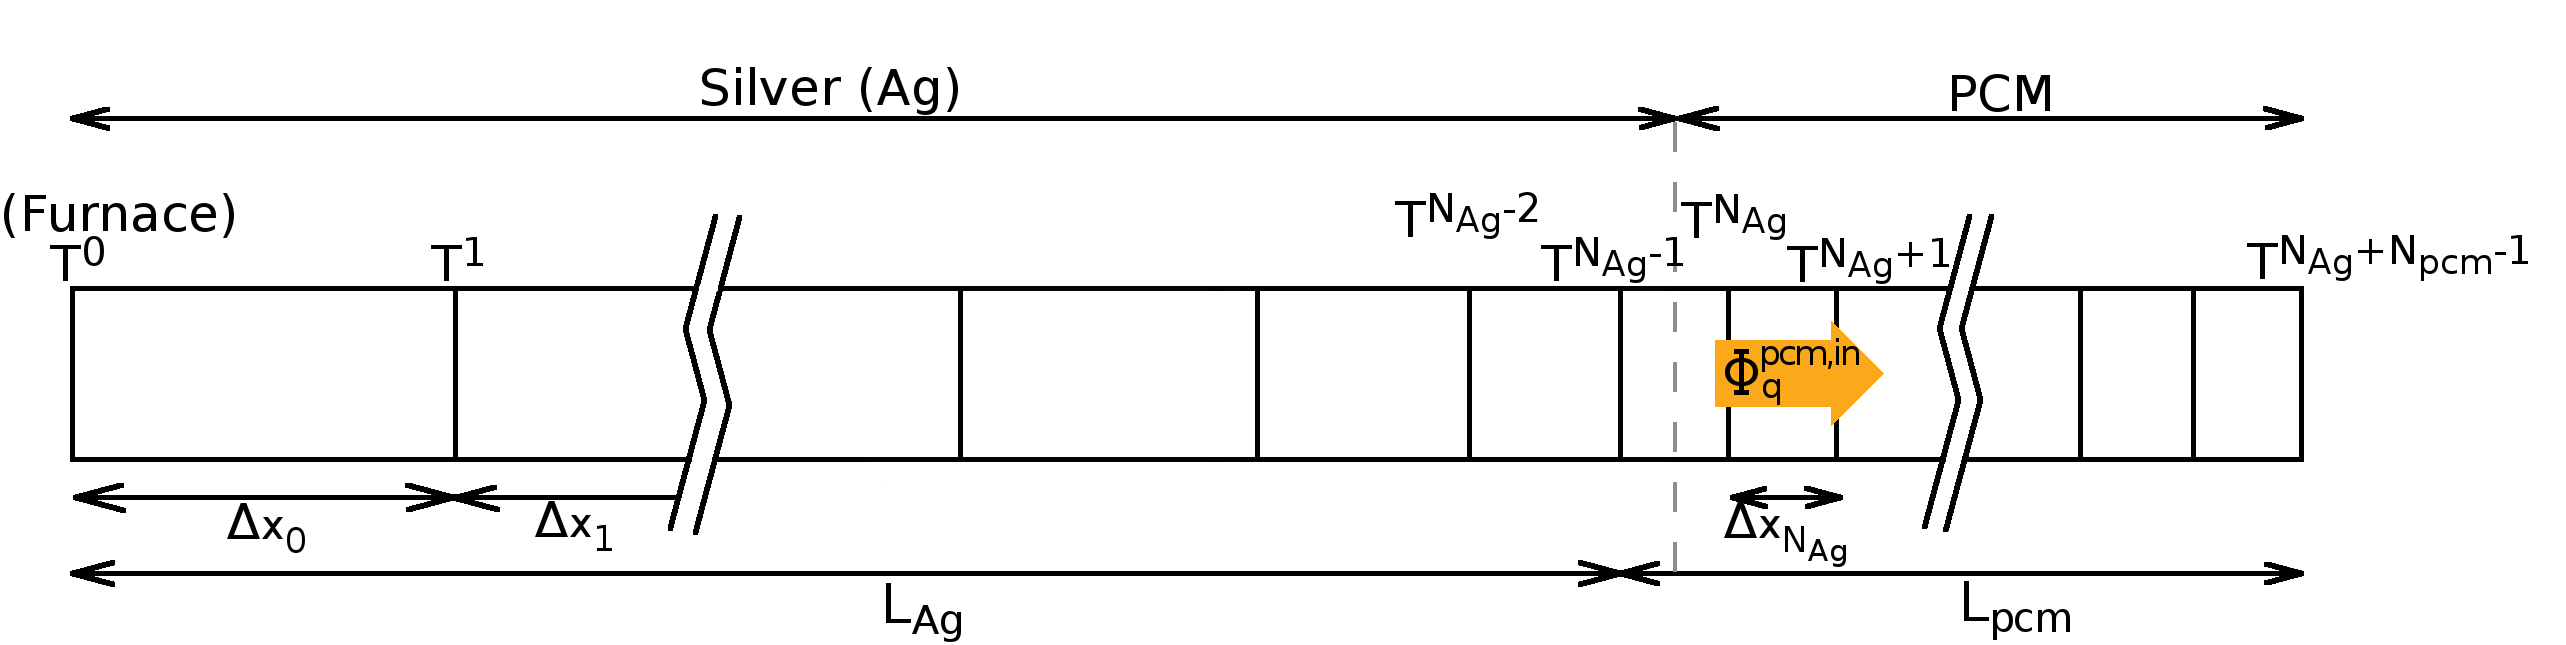
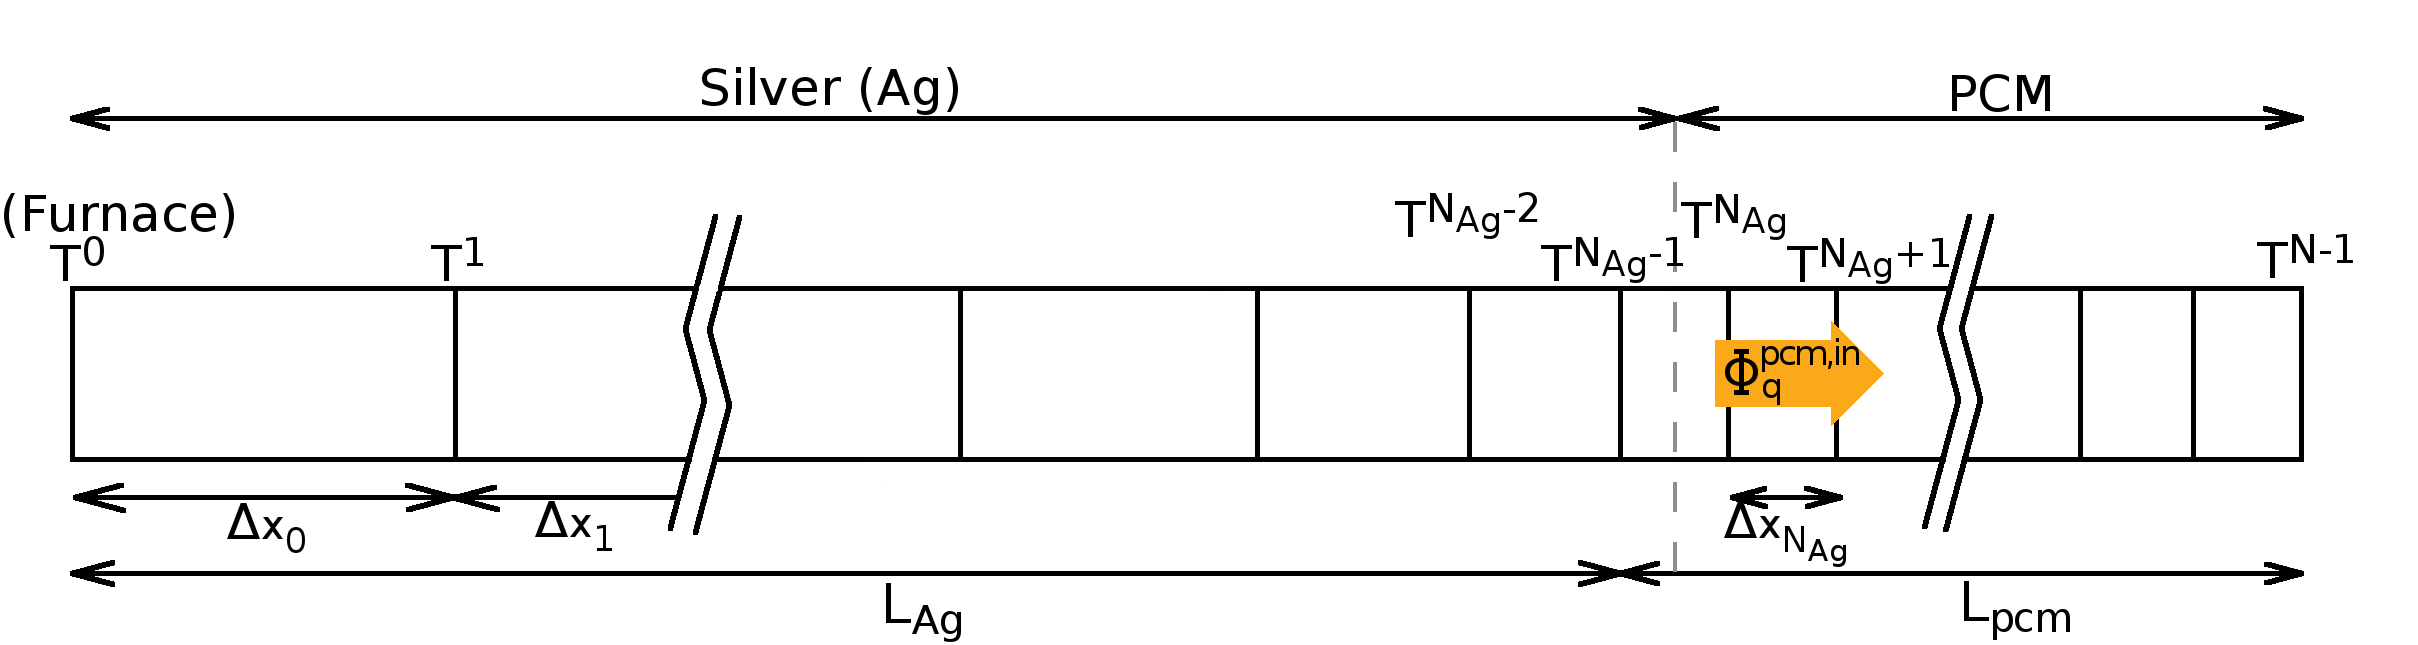
updated mathematical model part in thesis

diff --git a/thesis/thesis.tex b/thesis/thesis.tex
@@ -1331,7 +1331,7 @@ where $F_{1-\alpha}$ is the $1-\alpha$ quantile of the Fisher-distribution. The 
 
 Our 1D mathematical model uses the differential state variable $T(x,t)$ which is the temperature at spatial coordinate $x$ at time $t$. It is based on the following assumptions. First the heat transport is exclusively done by thermal diffusion (c.f. \cref{sec:heat_equation}), so convection and thermal radiation are neglected. 
 Moreover we assume that the reference and sample crucible (see \cref{fig:heat_flux_DSC}) are independent of each other which allows us to simulate each side on its own. 
-Analog to the experimental setup the silver plate is connected with the furnace whose temperature increases we a constant heat rate $\beta$ which gives the Dirichlet boundary condition \cref{eq:heat_equation_BC_dirichlet}. All material properties of silver are constant so the heat transport there is described by \cref{eq:heat_equation_Ag}. The silver plate then is connected with the PCM whose mass density $\rho_{pcm}$ and heat conductivity $\lambda_{pcm}$ are assumed to be constant. The specific heat capacity $c_p(T)$ is temperature dependent, parametrized (c.f. \cref{sec:parametrizations}) and the quantity we want to obtain by performing a parameter estimation. \cref{eq:heat_equation_PCM} describes then the heat transport within the PCM at which we assume that no heat can leave the PCM, resulting in Neumann boundary condition \cref{eq:heat_equation_BC_Neumann}. Finally as start condition at time $t_0 = 0$ we assume that the temperature is equal everywhere (\cref{eq:heat_equation_start_values}).
+Analog to the experimental setup the silver plate is connected with the furnace whose temperature increases with a constant heat rate $\beta$ which gives the Dirichlet boundary condition \cref{eq:heat_equation_BC_dirichlet}. All material properties of silver are constant so the heat transport there is described by \cref{eq:heat_equation_Ag}. The silver plate then is connected with the PCM whose mass density $\rho_{pcm}$ and heat conductivity $\lambda_{pcm}$ are assumed to be constant. The specific heat capacity $c_p(T)$ is temperature dependent, parametrized (c.f. \cref{sec:parametrizations}) and the quantity we want to obtain by performing a parameter estimation. \Cref{eq:heat_equation_PCM} describes then the heat transport within the PCM at which we assume that no heat can leave the PCM, resulting in Neumann boundary condition \cref{eq:heat_equation_BC_Neumann}. Finally as start condition at time ${t_0 = 0}$ we assume that the temperature is equal everywhere (\cref{eq:heat_equation_start_values}).
 
 \begin{subequations}
 	\begin{align}
@@ -1345,7 +1345,9 @@ Analog to the experimental setup the silver plate is connected with the furnace 
 \end{subequations}
 
 
-In order to solve \cref{eq:heat_equation_model} the method of lines is applied for a spatial discretization (c.f. \cref{sec:pde_discretization}) of the temperature. In \cref{sec:spatial_discretization_grid} the construction of the inhomogeneous grid will be explained in detail. The resulting initial value problem reads as
+In order to solve \cref{eq:heat_equation_model} method of lines is applied for spatial discretization (c.f. \cref{sec:pde_discretization}) of the temperature field $T(x,t)$. The silver plate has $N_{Ag}$ and the PCM $N_{pcm}$ discretization points where the total number of discretization points is $N = N_{Ag} + N_{pcm}$.
+An illustration of the discretized model is depicted in \cref{fig:mathematical_model_discretized}. Note that the first discretized temperature within the PCM is $T^{N_{Ag}}$.
+In \cref{sec:spatial_discretization_grid} the construction of the inhomogeneous grid will be explained in detail. The resulting initial value problem reads as
 
 \begin{align}
 \hspace{-2cm}
@@ -1353,9 +1355,9 @@ In order to solve \cref{eq:heat_equation_model} the method of lines is applied f
 T^0 \\[1ex]
 T^1 \\[0.3ex]
 \vdots \\[1ex]
-T^{N-N_{pcm}-2} \\[1.7ex]
-T^{N-N_{pcm}-1} \\[1.7ex]
-T^{N-N_{pcm}} \\[0.5ex]
+T^{N_{Ag}-2} \\[1.7ex]
+T^{N_{Ag}-1} \\[1.7ex]
+T^{N_{Ag}} \\[0.5ex]
 \vdots \\[1.5ex]
 T^{N-2} \\[1ex]
 T^{N-1}
@@ -1364,49 +1366,63 @@ T^{N-1}
 \beta \\
 \frac{\lambda_{\text{Ag}}}{\rho_{\text{Ag}} \ c_{p,\text{Ag}}} \cdot \tilde{\Delta} T^1 \\[0.7ex]
 \vdots \\[0.3ex]
-\frac{\lambda_{\text{Ag}}}{\rho_{\text{Ag}} \ c_{p,\text{Ag}}} \cdot \tilde{\Delta} T^{N-N_{pcm}-1} \\[1.5ex]
-\frac{\lambda_{\text{Ag}}}{\rho_{\text{Ag}} \ c_{p,\text{Ag}}} \cdot \tilde{\Delta} T^{N-N_{pcm}} \\[1.5ex]
-\frac{\lambda_{\text{pcm}}}{\rho_{\text{pcm}} \ c_{p,{\text{pcm}}}(T^{N-N_{pcm}+1})} \cdot \tilde{\Delta} T^{N-N_{pcm}+1} \\[0.5ex]
+\frac{\lambda_{\text{Ag}}}{\rho_{\text{Ag}} \ c_{p,\text{Ag}}} \cdot \tilde{\Delta} T^{N_{Ag}-2} \\[1.5ex]
+\frac{\lambda_{\text{Ag}}}{\rho_{\text{Ag}} \ c_{p,\text{Ag}}} \cdot \tilde{\Delta} T^{N_{Ag}-1} \\[1.5ex]
+\frac{\lambda_{\text{pcm}}}{\rho_{\text{pcm}} \ c_{p,{\text{pcm}}}(T^{N_{Ag}})} \cdot \tilde{\Delta} T^{N_{Ag}} \\[0.5ex]
 \vdots \\[0.5ex]
 \frac{\lambda_{\text{pcm}}}{\rho_{\text{pcm}} \ c_{p,{\text{pcm}}}(T^{N-2})} \cdot \tilde{\Delta} T^{N-2} \\[0.5ex]
-\frac{\lambda_{\text{pcm}}}{\rho_{\text{pcm}} \ c_{p,\text{pcm}}(T^{N-1})} \cdot \tilde{\Delta} T^{N-1}
+%\frac{\lambda_{\text{pcm}}}{\rho_{\text{pcm}} \ c_{p,\text{pcm}}(T^{N-1})} \cdot \tilde{\Delta} T^{N-1}
+\frac{\lambda_{\text{pcm}}}{\rho_{\text{pcm}} \ c_{p,\text{pcm}}(T^{N-1})} \cdot \frac{1}{\Delta x_{N-2}^2} \frac{2}{1 + \alpha_{N-2}} [T^{N-2} - T^{N-1}]
 \end{bmatrix} \label{eq:heat_equation_discretized} \\[2ex]
 T^i(t_0=0) = & \ T_0 \ \ \forall \ \ i \in \{ 0,1,...,N-1 \} \nonumber
 \end{align}
 
-\todo{Eintrag $T^{N-1}$ falsch...} \\
 
-where using \cref{eq:2_point_formula_inhomogeneous} the abbreviation for the discretized second derivative is defined as
+where \cref{eq:2_point_formula_inhomogeneous} has been used. The abbreviation for the discretized second derivative is defined as
 
 \begin{align}
 	\tilde{\Delta} T^i := \frac{1}{\Delta x_{i-1}^2} \left[ \frac{2}{1+\alpha_{i-1}} T^{i-1} - \frac{2}{\alpha_{i-1}} T^{i} + \frac{2}{\alpha_{i-1} (\alpha_{i-1} + 1)} T^{i+1} \right]
 \end{align}
 
-and the factor $\alpha$ coming from the inhomogeneous grid is
+and the factor $\alpha_i$ coming from the inhomogeneous grid is
 
 \begin{align}
 	\alpha_i = \frac{\Delta x_{i+1}}{\Delta x_{i}}
 \end{align}
 
+Note here that the Dirichlet boundary condition 
+
+\begin{equation}
+	T^0 = T_0 + \beta \cdot t
+\end{equation}
+
+is apparent by the heat rate $\beta$ at temperature $T^0$. Zero flux Neumann boundary condition on the other hand
+
+\begin{align}
+	\frac{\partial}{\partial x} T^{N-1} \stackrel{\cdot}{=} & \ \frac{T^N - T^{N-1}}{\Delta x_{N-1}} \stackrel{!}{=} \ 0 \\
+	\Leftrightarrow T^{N-1} = & \ T^N
+\end{align}
+
+ at the PCM gives the expression for $\frac{d T^{N-1}}{dt}$ in \cref{eq:heat_equation_discretized} where a virtual grid point $T^N$ has been used.
 
 \begin{figure}[H]
 	\centering
 	\includegraphics[width=1.\textwidth]{/home/argo/masterarbeit/thesis/images/discretization_grid_heat_flux.png}
-	\caption{\todo{!!}}
+	\caption{Illustration of discretized model with discrete temperatures $T^i$, grid sizes $\Delta x_i$, physical length $L$ and heat flux approximation $\varPhi_q^{pcm,in}$ into the PCM. \\
+	C.f	corresponding IVP \cref{eq:heat_equation_discretized}, grid size construction \cref{sec:spatial_discretization_grid} and heat flux approximation \cref{eq:heat_flux_computation_final} and experimental setup \cref{fig:heat_flux_DSC}.}
 	\label{fig:mathematical_model_discretized}
 \end{figure}
 
-The system is structured in three parts. First there is the furnace which increases its temperature with the heating rate $\beta$. Afterwards comes the silver plate until index $N$-$N_{pcm}$-$1$ and finally the PCM with temperature dependent specific heat capacity $c_p$. \\
 
-Solving \cref{eq:heat_equation_discretized} yields the temperature but we are primarily interested in the heat flux into the PCM $\varPhi_{q}^{\text{pcm,in}}$ marked in \cref{fig:mathematical_model_discretized}. For the conversion from temperature to heat flux we use Fourier's law \cref{eq:fouriers_law} where the gradient is discretized:
+Solving \cref{eq:heat_equation_discretized} yields the temperature but we are primarily interested in the heat flux into the PCM $\varPhi_{q}^{pcm,in}$. For the conversion from temperature to heat flux we use Fourier's law \cref{eq:fouriers_law} where the gradient is discretized:
 
 \begin{align}
-	\varPhi_{q}^{\text{pcm,in}}(T) = & - \bar{\lambda} \frac{T^{N_{\text{pcm}}} - T^{N_{\text{pcm}}-1}}{\Delta x_{N_{\text{pcm}}-1}} \cdot A_{\text{pcm}} \\
-	\approx & - \lambda_{\text{pcm}} \frac{T^{N_{\text{pcm}}+1} - T^{N_{\text{pcm}}}}{\Delta x_{N_{\text{pcm}}}} \cdot A_{\text{pcm}} \nonumber
+	\varPhi_{q}^{pcm,in}(T) = & - \bar{\lambda} \frac{T^{N_{Ag}} - T^{N_{Ag}-1}}{\Delta x_{N_{Ag}-1}} \cdot A_{pcm} \\
+	\approx & - \lambda_{pcm} \frac{T^{N_{Ag}+1} - T^{N_{Ag}}}{\Delta x_{N_{Ag}}} \cdot A_{pcm} \nonumber
 \end{align}
 
-The approximation is necessary because we do not know the heat conductivity $\bar{\lambda}$ at the transition between the silver plate and the PCM. \\
-Since Fourier's law gives a heat flux density we need to add a factor of the PCM's cross section $A_{\text{pcm}}$. It is computed by
+The approximation (marked in \cref{fig:mathematical_model_discretized}) is necessary because we do not know the heat conductivity $\bar{\lambda}$ at the transition between the silver plate and the PCM. \\
+Since Fourier's law gives a heat flux density we need to add a factor of the PCM's cross section $A_{pcm}$. It is computed by
 
 \begin{equation}
 	\frac{m_{pcm}}{N_{pcm}} = m_{pcm,i} = \rho_{pcm} \cdot A_{pcm} \cdot \Delta x_i 
@@ -1415,7 +1431,7 @@ Since Fourier's law gives a heat flux density we need to add a factor of the PCM
 assuming beside a homogeneous mass distribution, a constant grid size $\Delta x$ in the PCM which is satisfied in good approximation by construction of the spatial discretization grid, see next section. The final equation for the heat flux computation then reads as
 
 \begin{equation}
-	\varPhi_{q}^{\text{pcm,in}}(T) \approx - \frac{\lambda_{pcm} \ m_{pcm}}{N_{pcm} \ \rho_{pcm} \ (\Delta x_{N_{pcm}})^2} \left( T^{N_{\text{pcm}}+1} - T^{N_{\text{pcm}}} \right)
+	\varPhi_{q}^{pcm,in}(T) \approx - \frac{\lambda_{pcm} \ m_{pcm}}{N_{pcm} \ \rho_{pcm} \ (\Delta x_{N_{pcm}})^2} \left( T^{N_{pcm}+1} - T^{N_{pcm}} \right)
 	\label{eq:heat_flux_computation_final}
 \end{equation}
 
